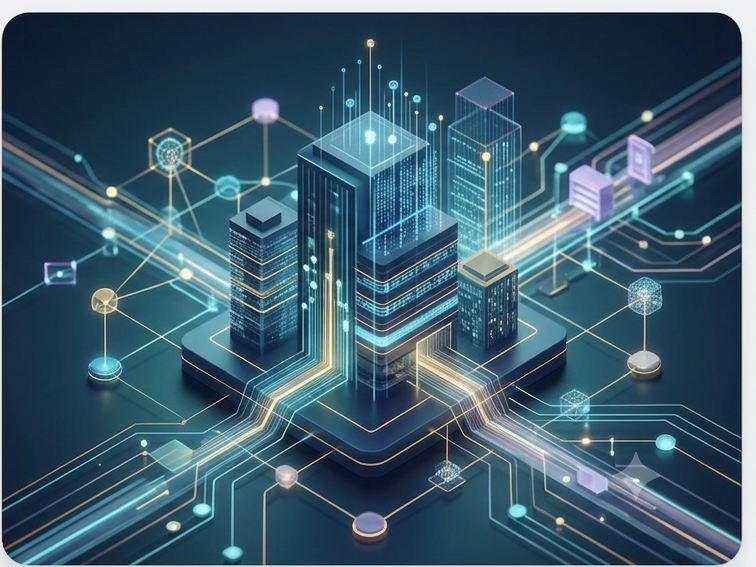
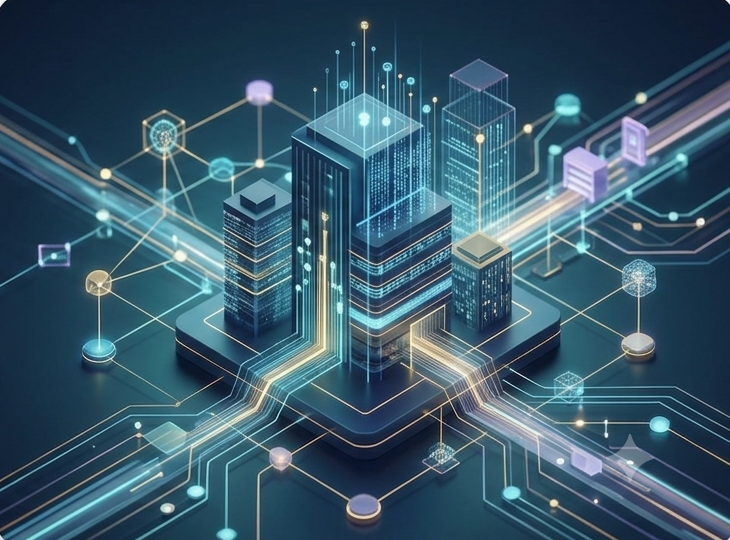
flip lightness between themes

diff --git a/src/components/ThemeToggle.tsx b/src/components/ThemeToggle.tsx
@@ -1,7 +1,9 @@
-// CHANGED: rebuilt per the Daylight/Lab toggle spec — a labeled two-segment control instead of
-// a sun/moon icon button. The theme names are part of the brand, so an icon-only control that
-// doesn't say what it does isn't enough. Persists to localStorage["3y-theme"]; no stored value
-// means no explicit choice, and styles.css falls back to the OS preference.
+// CHANGED: replaced the two-segment "Daylight / Lab" control with a single icon toggle button,
+// per client request. The original spec argued against icon-only because the theme names are
+// part of the brand — kept that concern addressed via aria-label, a title tooltip, and the
+// aria-live announcement, so the control is still unambiguous to assistive tech even though it
+// no longer shows the words "Daylight"/"Lab" visually.
+import { Moon, Sun } from "lucide-react";
 import { useEffect, useState } from "react";
 
 type Theme = "daylight" | "lab";
@@ -19,7 +21,8 @@ export function ThemeToggle({ className = "" }: { className?: string }) {
     }
   }, []);
 
-  const choose = (next: Theme) => {
+  const toggle = () => {
+    const next: Theme = theme === "lab" ? "daylight" : "lab";
     setTheme(next);
     document.documentElement.dataset["theme"] = next;
     try {
@@ -30,35 +33,19 @@ export function ThemeToggle({ className = "" }: { className?: string }) {
     setAnnouncement(`${next === "lab" ? "Lab" : "Daylight"} theme on.`);
   };
 
+  const isLab = theme === "lab";
+
   return (
-    <div
-      role="group"
-      aria-label="Theme"
-      className={`inline-flex items-center gap-0.5 rounded-lg border border-border bg-secondary p-0.5 ${className}`}
-    >
+    <div className={`inline-flex ${className}`}>
       <button
         type="button"
-        aria-pressed={theme === "daylight"}
-        onClick={() => choose("daylight")}
-        className={`cursor-pointer rounded-md px-3 py-1.5 text-xs font-semibold transition-colors duration-[240ms] ease-out motion-reduce:transition-none ${
-          theme === "daylight"
-            ? "bg-card text-foreground shadow-[var(--shadow-soft)]"
-            : "text-muted-foreground hover:text-foreground"
-        }`}
+        aria-pressed={isLab}
+        aria-label={isLab ? "Switch to Daylight theme" : "Switch to Lab theme"}
+        title={isLab ? "Switch to Daylight theme" : "Switch to Lab theme"}
+        onClick={toggle}
+        className="inline-flex h-9 w-9 cursor-pointer items-center justify-center rounded-lg border border-border bg-secondary text-muted-foreground transition-colors duration-[240ms] ease-out hover:text-foreground motion-reduce:transition-none"
       >
-        Daylight
-      </button>
-      <button
-        type="button"
-        aria-pressed={theme === "lab"}
-        onClick={() => choose("lab")}
-        className={`cursor-pointer rounded-md px-3 py-1.5 text-xs font-semibold transition-colors duration-[240ms] ease-out motion-reduce:transition-none ${
-          theme === "lab"
-            ? "bg-card text-foreground shadow-[var(--shadow-soft)]"
-            : "text-muted-foreground hover:text-foreground"
-        }`}
-      >
-        Lab
+        {isLab ? <Moon className="h-4 w-4" aria-hidden /> : <Sun className="h-4 w-4" aria-hidden />}
       </button>
       <span aria-live="polite" className="sr-only">
         {announcement}

diff --git a/src/routes/index.tsx b/src/routes/index.tsx
@@ -338,7 +338,7 @@ function Home() {
                 stays a single compact line rather than duplicating placeholder content. */}
             <p className="mt-5 flex items-center gap-1.5 text-xs text-muted-foreground">
               <Clock3 className="h-3.5 w-3.5" aria-hidden />
-              Metrics and a client quote pending AscendHSI sign-off — see the full story.
+              Metrics and a client quote pending AscendHSI sign-off  see the full story.
             </p>
             <Link
               to="/results"
@@ -364,7 +364,7 @@ function Home() {
                     {n}
                   </span>
                   <span className="font-display font-semibold">{name}</span>
-                  <span className="text-muted-foreground"> — {body}</span>
+                  <span className="text-muted-foreground">  {body}</span>
                 </p>
               </li>
             ))}
@@ -386,16 +386,20 @@ function Home() {
           AI that fits the way your industry works.
         </h2>
         <article
-          className="relative mt-8 overflow-hidden rounded-2xl p-8 text-primary-foreground shadow-[var(--shadow-lift)] sm:p-10"
+          className="relative mt-8 overflow-hidden rounded-2xl p-8 text-white shadow-[var(--shadow-lift)] sm:p-10"
           style={{
-            backgroundImage: `linear-gradient(135deg, color-mix(in oklab, var(--brand-deep) 92%, transparent) 0%, color-mix(in oklab, var(--brand) 80%, transparent) 100%), url(${legalImage})`,
+            // CHANGED: fixed dark navy scrim instead of var(--brand)/(--brand-deep) — those
+            // tokens become light aqua in Lab theme, which turned this into a washed-out
+            // overlay with unreadable text. A photo-legibility scrim should stay dark and the
+            // text on it stay white regardless of theme.
+            backgroundImage: `linear-gradient(135deg, oklch(0.24 0.09 268 / 0.92) 0%, oklch(0.34 0.12 268 / 0.8) 100%), url(${legalImage})`,
             backgroundSize: "cover",
             backgroundPosition: "center",
           }}
         >
-          <Gavel className="h-5 w-5 text-primary-foreground" aria-hidden />
+          <Gavel className="h-5 w-5 text-white" aria-hidden />
           <h3 className="mt-4 font-display text-2xl font-semibold">Legal</h3>
-          <p className="mt-2 font-mono text-[10px] uppercase tracking-widest text-primary-foreground/80">
+          <p className="mt-2 font-mono text-[10px] uppercase tracking-widest text-white/80">
             Deepest domain focus
           </p>
         </article>

diff --git a/src/components/CTASection.tsx b/src/components/CTASection.tsx
@@ -23,16 +23,19 @@ export function CTASection({ asSection = true, compact = false, secondary }: CTA
           className="pointer-events-none absolute -right-24 -top-24 h-72 w-72 rounded-full"
           style={{ background: "radial-gradient(circle, rgba(255,255,255,0.22), transparent 70%)" }}
         />
-        <h2 className="mx-auto max-w-2xl text-3xl font-bold text-primary-foreground sm:text-4xl">
+        <h2 className="mx-auto max-w-2xl text-3xl font-bold text-white sm:text-4xl">
           Ready to move from AI curiosity to AI capability?
         </h2>
-        <p className="mx-auto mt-4 max-w-xl text-sm text-primary-foreground/80">
+        <p className="mx-auto mt-4 max-w-xl text-sm text-white/80">
           Tell us where you are today. We'll help identify where AI can create measurable value.
         </p>
         <div className="mt-8 flex flex-col items-center justify-center gap-3 sm:flex-row">
           <Link
             to="/contact"
-            className="group inline-flex cursor-pointer items-center justify-center gap-2 rounded-lg bg-white px-6 py-3.5 text-sm font-semibold text-[var(--brand)] shadow-[var(--shadow-lift)] transition-all hover:-translate-y-0.5 hover:bg-white/95"
+            // CHANGED: this pill is always a solid white surface by design (in both themes),
+            // so its text needs a fixed dark color rather than --brand — --brand becomes a
+            // light aqua in Lab, which was unreadable on white.
+            className="group inline-flex cursor-pointer items-center justify-center gap-2 rounded-lg bg-white px-6 py-3.5 text-sm font-semibold text-[oklch(0.30_0.135_268)] shadow-[var(--shadow-lift)] transition-all hover:-translate-y-0.5 hover:bg-white/95"
           >
             Book an AI Readiness Assessment
             <ArrowRight
@@ -43,7 +46,7 @@ export function CTASection({ asSection = true, compact = false, secondary }: CTA
           {secondary && (
             <Link
               to={secondary.to}
-              className="inline-flex cursor-pointer items-center justify-center gap-2 rounded-lg border border-white/40 px-6 py-3.5 text-sm font-semibold text-primary-foreground transition-colors hover:bg-white/10"
+              className="inline-flex cursor-pointer items-center justify-center gap-2 rounded-lg border border-white/40 px-6 py-3.5 text-sm font-semibold text-white transition-colors hover:bg-white/10"
             >
               {secondary.label}
             </Link>

diff --git a/src/routes/products.$portal.tsx b/src/routes/products.$portal.tsx
@@ -61,7 +61,7 @@ function PortalPage() {
           <p className="label-mono">Setu Discover</p>
           <h1 className="mt-4 text-3xl font-bold sm:text-4xl">{portal.headline}</h1>
           <p className="mx-auto mt-5 max-w-xl text-base text-muted-foreground">
-            Setu Discover isn't a portal you buy on its own — it's the analysis behind the AI
+            Setu Discover isn't a portal you buy on its own  it's the analysis behind the AI
             Readiness Assessment, the engagement most clients start with.
           </p>
           <Link
@@ -192,7 +192,7 @@ function PortalPage() {
         <div className="mt-6 grid gap-6 rounded-2xl border border-dashed border-border bg-[var(--tint)] p-6 sm:p-8 lg:grid-cols-[1fr_1.4fr] lg:items-center">
           <div>
             <p className="font-mono text-[10px] uppercase tracking-widest text-muted-foreground">
-              Metric — pending client sign-off
+              Metric  pending client sign-off
             </p>
             <p className="mt-2 text-base font-medium text-foreground">{portal.proof.metric}</p>
           </div>

diff --git a/src/data/setu.ts b/src/data/setu.ts
@@ -201,7 +201,7 @@ export const portals: Portal[] = [
       "Sensitive files stay under customer control",
     ],
     buyer: "Case preparation & paralegal teams",
-    headline: "Evidence organised and drafted — with a human signing off every time.",
+    headline: "Evidence organised and drafted  with a human signing off every time.",
     role: "differentiator",
     whoFor:
       "Case preparation and paralegal teams assembling evidence against a defined set of criteria, where a missed or mis-filed document has real consequences.",
@@ -313,7 +313,7 @@ export const portals: Portal[] = [
     ],
     dayOne: [],
     security:
-      "Covered under the AI Readiness Assessment engagement — see the service page for details.",
+      "Covered under the AI Readiness Assessment engagement  see the service page for details.",
     proof: {
       metric: "",
       pending: true,

diff --git a/src/styles.css b/src/styles.css
@@ -160,7 +160,7 @@
     --chart-4: oklch(0.75 0.16 55);
     --chart-5: oklch(0.60 0.14 265);
 
-    --gradient-brand: var(--brand-deep);
+    --gradient-brand: oklch(0.24 0.06 195);
     --gradient-accent: var(--primary);
     --gradient-tint: linear-gradient(180deg, var(--background) 0%, var(--tint) 100%);
     --shadow-soft: 0 1px 2px oklch(0 0 0 / 0.4), 0 8px 24px -12px oklch(0 0 0 / 0.55);
@@ -204,7 +204,7 @@
   --chart-4: oklch(0.75 0.16 55);
   --chart-5: oklch(0.60 0.14 265);
 
-  --gradient-brand: var(--brand-deep);
+  --gradient-brand: oklch(0.24 0.06 195);
   --gradient-accent: var(--primary);
   --gradient-tint: linear-gradient(180deg, var(--background) 0%, var(--tint) 100%);
   --shadow-soft: 0 1px 2px oklch(0 0 0 / 0.4), 0 8px 24px -12px oklch(0 0 0 / 0.55);

diff --git a/src/routes/products.setu-systems.tsx b/src/routes/products.setu-systems.tsx
@@ -118,7 +118,7 @@ function SetuPage() {
           <p className="text-sm text-muted-foreground">
             Not sure where to start?{" "}
             <span className="font-medium text-foreground">{discover.name}</span> is how engagements
-            begin — it's the opportunity map behind the AI Readiness Assessment, not a portal you
+            begin  it's the opportunity map behind the AI Readiness Assessment, not a portal you
             buy on its own.
           </p>
           <Link
